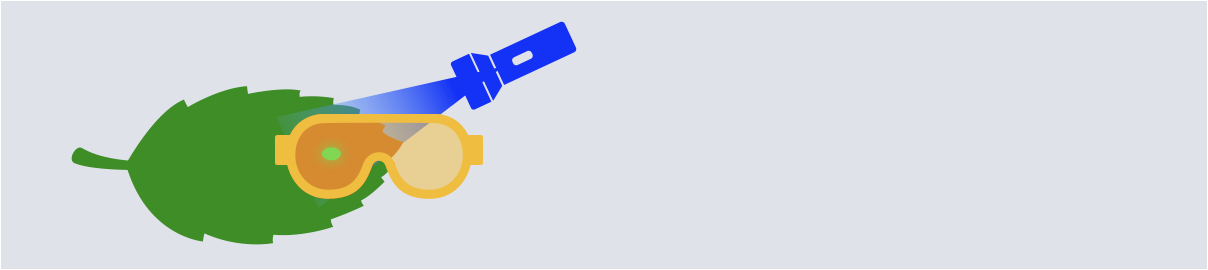
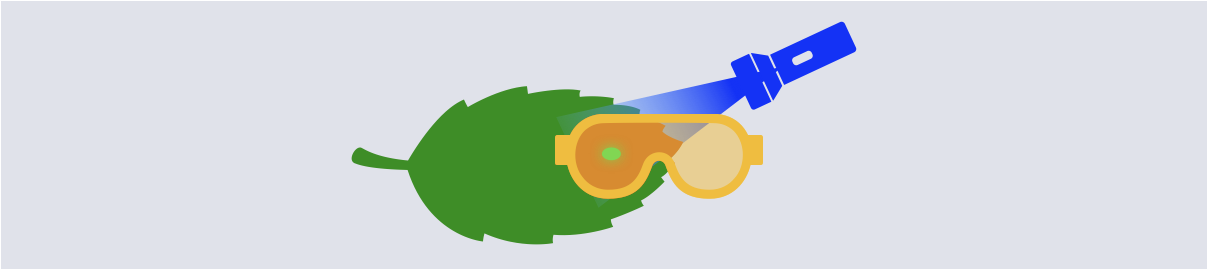
scootched header image a bit so it shows up in Twitter preview better

Changed region(s): [[0.0613, 0.0889, 0.7045, 0.9185]]

diff --git a/content/post/2018-06-28-webchem.html b/content/post/2018-06-28-webchem.html
@@ -144,32 +144,32 @@ left_join(fake.data, best_RIs) %&gt;%
 <td align="left">123-35-3</td>
 <td align="left">beta-myrcene</td>
 <td align="right">991</td>
-<td align="right">0.797</td>
-<td align="right">1.022</td>
+<td align="right">0.910</td>
+<td align="right">0.289</td>
 <td align="left">Maccioni, Baldini, et al., 2007</td>
 </tr>
 <tr class="even">
 <td align="left">119-36-8</td>
 <td align="left">methyl salicylate</td>
 <td align="right">1191</td>
-<td align="right">1.355</td>
-<td align="right">0.006</td>
+<td align="right">0.560</td>
+<td align="right">1.021</td>
 <td align="left">Aligiannis, Kalpoutzakis, et al., 2004</td>
 </tr>
 <tr class="odd">
 <td align="left">83-34-1</td>
 <td align="left">skatole</td>
 <td align="right">1391</td>
-<td align="right">0.446</td>
-<td align="right">0.966</td>
+<td align="right">0.580</td>
+<td align="right">1.449</td>
 <td align="left">Rostad and Pereira, 1986</td>
 </tr>
 <tr class="even">
 <td align="left">19700-21-1</td>
 <td align="left">geosmin</td>
 <td align="right">1430</td>
-<td align="right">0.000</td>
-<td align="right">1.571</td>
+<td align="right">0.788</td>
+<td align="right">1.423</td>
 <td align="left">Dickschat, Wenzel, et al., 2004</td>
 </tr>
 </tbody>

diff --git a/public/2018/06/28/webchem/index.html b/public/2018/06/28/webchem/index.html
@@ -460,32 +460,32 @@ left_join(fake.data, best_RIs) %&gt;%
 <td align="left">123-35-3</td>
 <td align="left">beta-myrcene</td>
 <td align="right">991</td>
-<td align="right">0.797</td>
-<td align="right">1.022</td>
+<td align="right">0.910</td>
+<td align="right">0.289</td>
 <td align="left">Maccioni, Baldini, et al., 2007</td>
 </tr>
 <tr class="even">
 <td align="left">119-36-8</td>
 <td align="left">methyl salicylate</td>
 <td align="right">1191</td>
-<td align="right">1.355</td>
-<td align="right">0.006</td>
+<td align="right">0.560</td>
+<td align="right">1.021</td>
 <td align="left">Aligiannis, Kalpoutzakis, et al., 2004</td>
 </tr>
 <tr class="odd">
 <td align="left">83-34-1</td>
 <td align="left">skatole</td>
 <td align="right">1391</td>
-<td align="right">0.446</td>
-<td align="right">0.966</td>
+<td align="right">0.580</td>
+<td align="right">1.449</td>
 <td align="left">Rostad and Pereira, 1986</td>
 </tr>
 <tr class="even">
 <td align="left">19700-21-1</td>
 <td align="left">geosmin</td>
 <td align="right">1430</td>
-<td align="right">0.000</td>
-<td align="right">1.571</td>
+<td align="right">0.788</td>
+<td align="right">1.423</td>
 <td align="left">Dickschat, Wenzel, et al., 2004</td>
 </tr>
 </tbody>

diff --git a/public/2018/11/07/trip-to-uji/index.html b/public/2018/11/07/trip-to-uji/index.html
@@ -400,9 +400,9 @@
     
     <li><a href="/talk/entsoc-2018-poster/">[poster] Interactive effects of drought severity and herbivory on tea (Camellia sinensis) volatile and non-volatile metabolites.</a></li>
     
-    <li><a href="/2018/07/20/last-fieldwork-season/">Last Fieldwork Season in China</a></li>
-    
     <li><a href="/talk/can-pests-rescue-tea-quality/">Can pests rescue tea quality from climate change?</a></li>
+    
+    <li><a href="/2018/07/20/last-fieldwork-season/">Last Fieldwork Season in China</a></li>
     
   </ul>
 </div>
